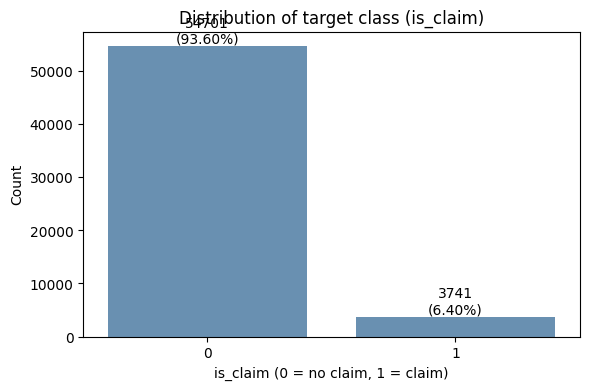
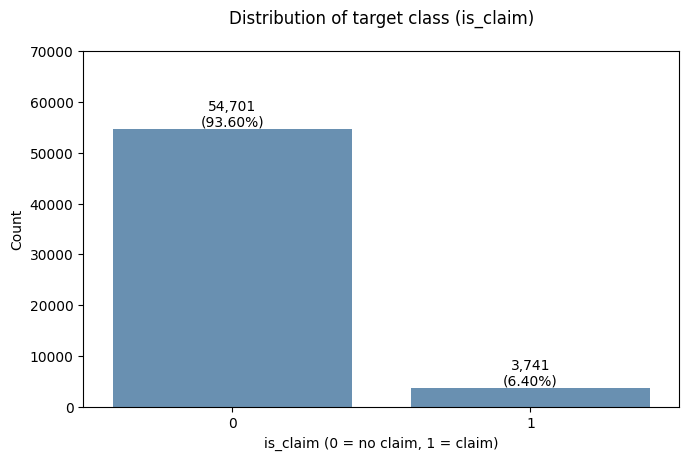
update README.md

Changed region(s): [[0.0, 0.0, 1.0, 0.9231], [0.3667, 0.9231, 0.764, 0.9846]]

diff --git a/eda.py b/eda.py
@@ -26,25 +26,31 @@ def chi_squared_ncap(df: pd.DataFrame) -> None:
 
 def plot_target_distribution(df: pd.DataFrame, output_dir: str) -> None:
     """Bar chart of is_claim counts (class imbalance)."""
-    plt.figure(figsize=(6, 4))
+    fig, ax = plt.subplots(figsize=(7, 5))
     order = sorted(df["is_claim"].dropna().unique())
-    ax = sns.countplot(data=df, x="is_claim", order=order, color="steelblue", alpha=0.88)
-    plt.xlabel("is_claim (0 = no claim, 1 = claim)")
-    plt.ylabel("Count")
-    plt.title("Distribution of target class (is_claim)")
+    sns.countplot(data=df, x="is_claim", order=order, color="steelblue", alpha=0.88, ax=ax)
+    ax.set_xlabel("is_claim (0 = no claim, 1 = claim)")
+    ax.set_ylabel("Count")
+    ax.set_title("Distribution of target class (is_claim)", pad=20)
     total = len(df)
+    ymax = 0.0
+    for p in ax.patches:
+        ymax = max(ymax, p.get_height())
     for p in ax.patches:
         h = p.get_height()
         if h <= 0:
             continue
         ax.annotate(
-            f"{int(h)}\n({100 * h / total:.2f}%)",
+            f"{int(h):,}\n({100 * h / total:.2f}%)",
             (p.get_x() + p.get_width() / 2, h),
             ha="center",
             va="bottom",
             fontsize=10,
+            linespacing=1.15,
         )
-    plt.tight_layout()
+    # Headroom so labels above the tallest bar do not overlap the title
+    ax.set_ylim(0, ymax * 1.28 if ymax else 1.0)
+    fig.tight_layout(rect=(0, 0, 1, 0.94))
     _save("target_distribution_is_claim.png", output_dir)
 
 
